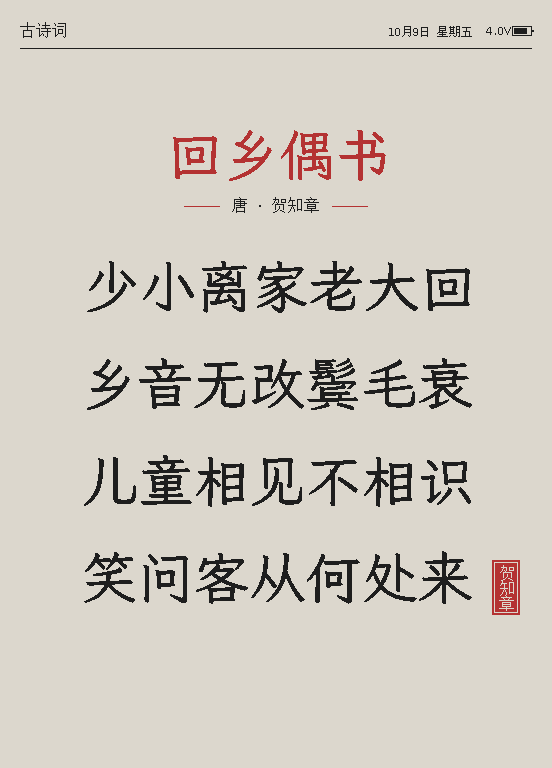
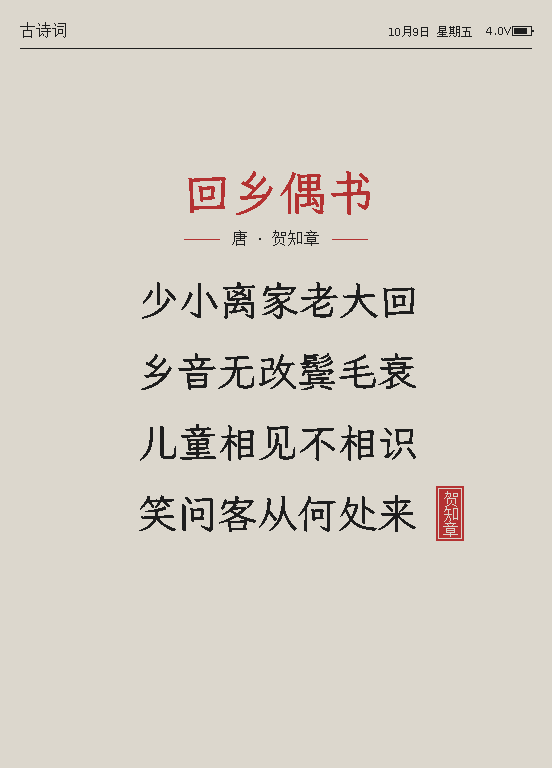
Poetry upright: no larger than the same poem lying down

diff --git a/server/src/screens/poetry.ts b/server/src/screens/poetry.ts
@@ -63,9 +63,11 @@ function couplets(lines: string[]): string[] {
   return out;
 }
 
-export function plan(poem: Poem, large: boolean, maxW: number, maxH: number): Layout {
+export function plan(poem: Poem, large: boolean, maxW: number, maxH: number, maxBody = Infinity): Layout {
   const metaH = refFonts().wqy12.ascent + 4;
-  const fonts = bodyFonts(large);
+  const all = bodyFonts(large);
+  const capped = all.filter((f) => fh(f) <= maxBody);
+  const fonts = capped.length ? capped : all.slice(-1);
   const comfortable = fonts.filter((f) => fh(f) >= (large ? 28 : 20)); // below this, try another layout first
   const attempt = (kind: Layout["kind"], body: RefFont, cols: 1 | 2): Layout | undefined => {
     const title = titleFont(poem, body, large, maxW);
@@ -127,7 +129,10 @@ export function renderPoetry(panel: Panel, ctx: ScreenContext) {
   const { c, W, H, large, m } = f;
   const pad = large ? 24 : 6;
   const maxW = W - 2 * m - 2 * pad, maxH = H - f.top - 2 * pad;
-  const L = plan(poem, large, maxW, maxH);
+  // upright: no larger than the same poem on the screen lying down (the long side would
+  // otherwise make it much larger)
+  const flat = H > W ? plan(poem, large, H - 2 * m - 2 * pad, W - f.top - 2 * pad) : undefined;
+  const L = plan(poem, large, maxW, maxH, flat ? fh(flat.body) : Infinity);
   const cx = Math.round(W / 2);
   let y = f.top + pad + Math.max(0, Math.round((maxH - L.h) / 3));
 
